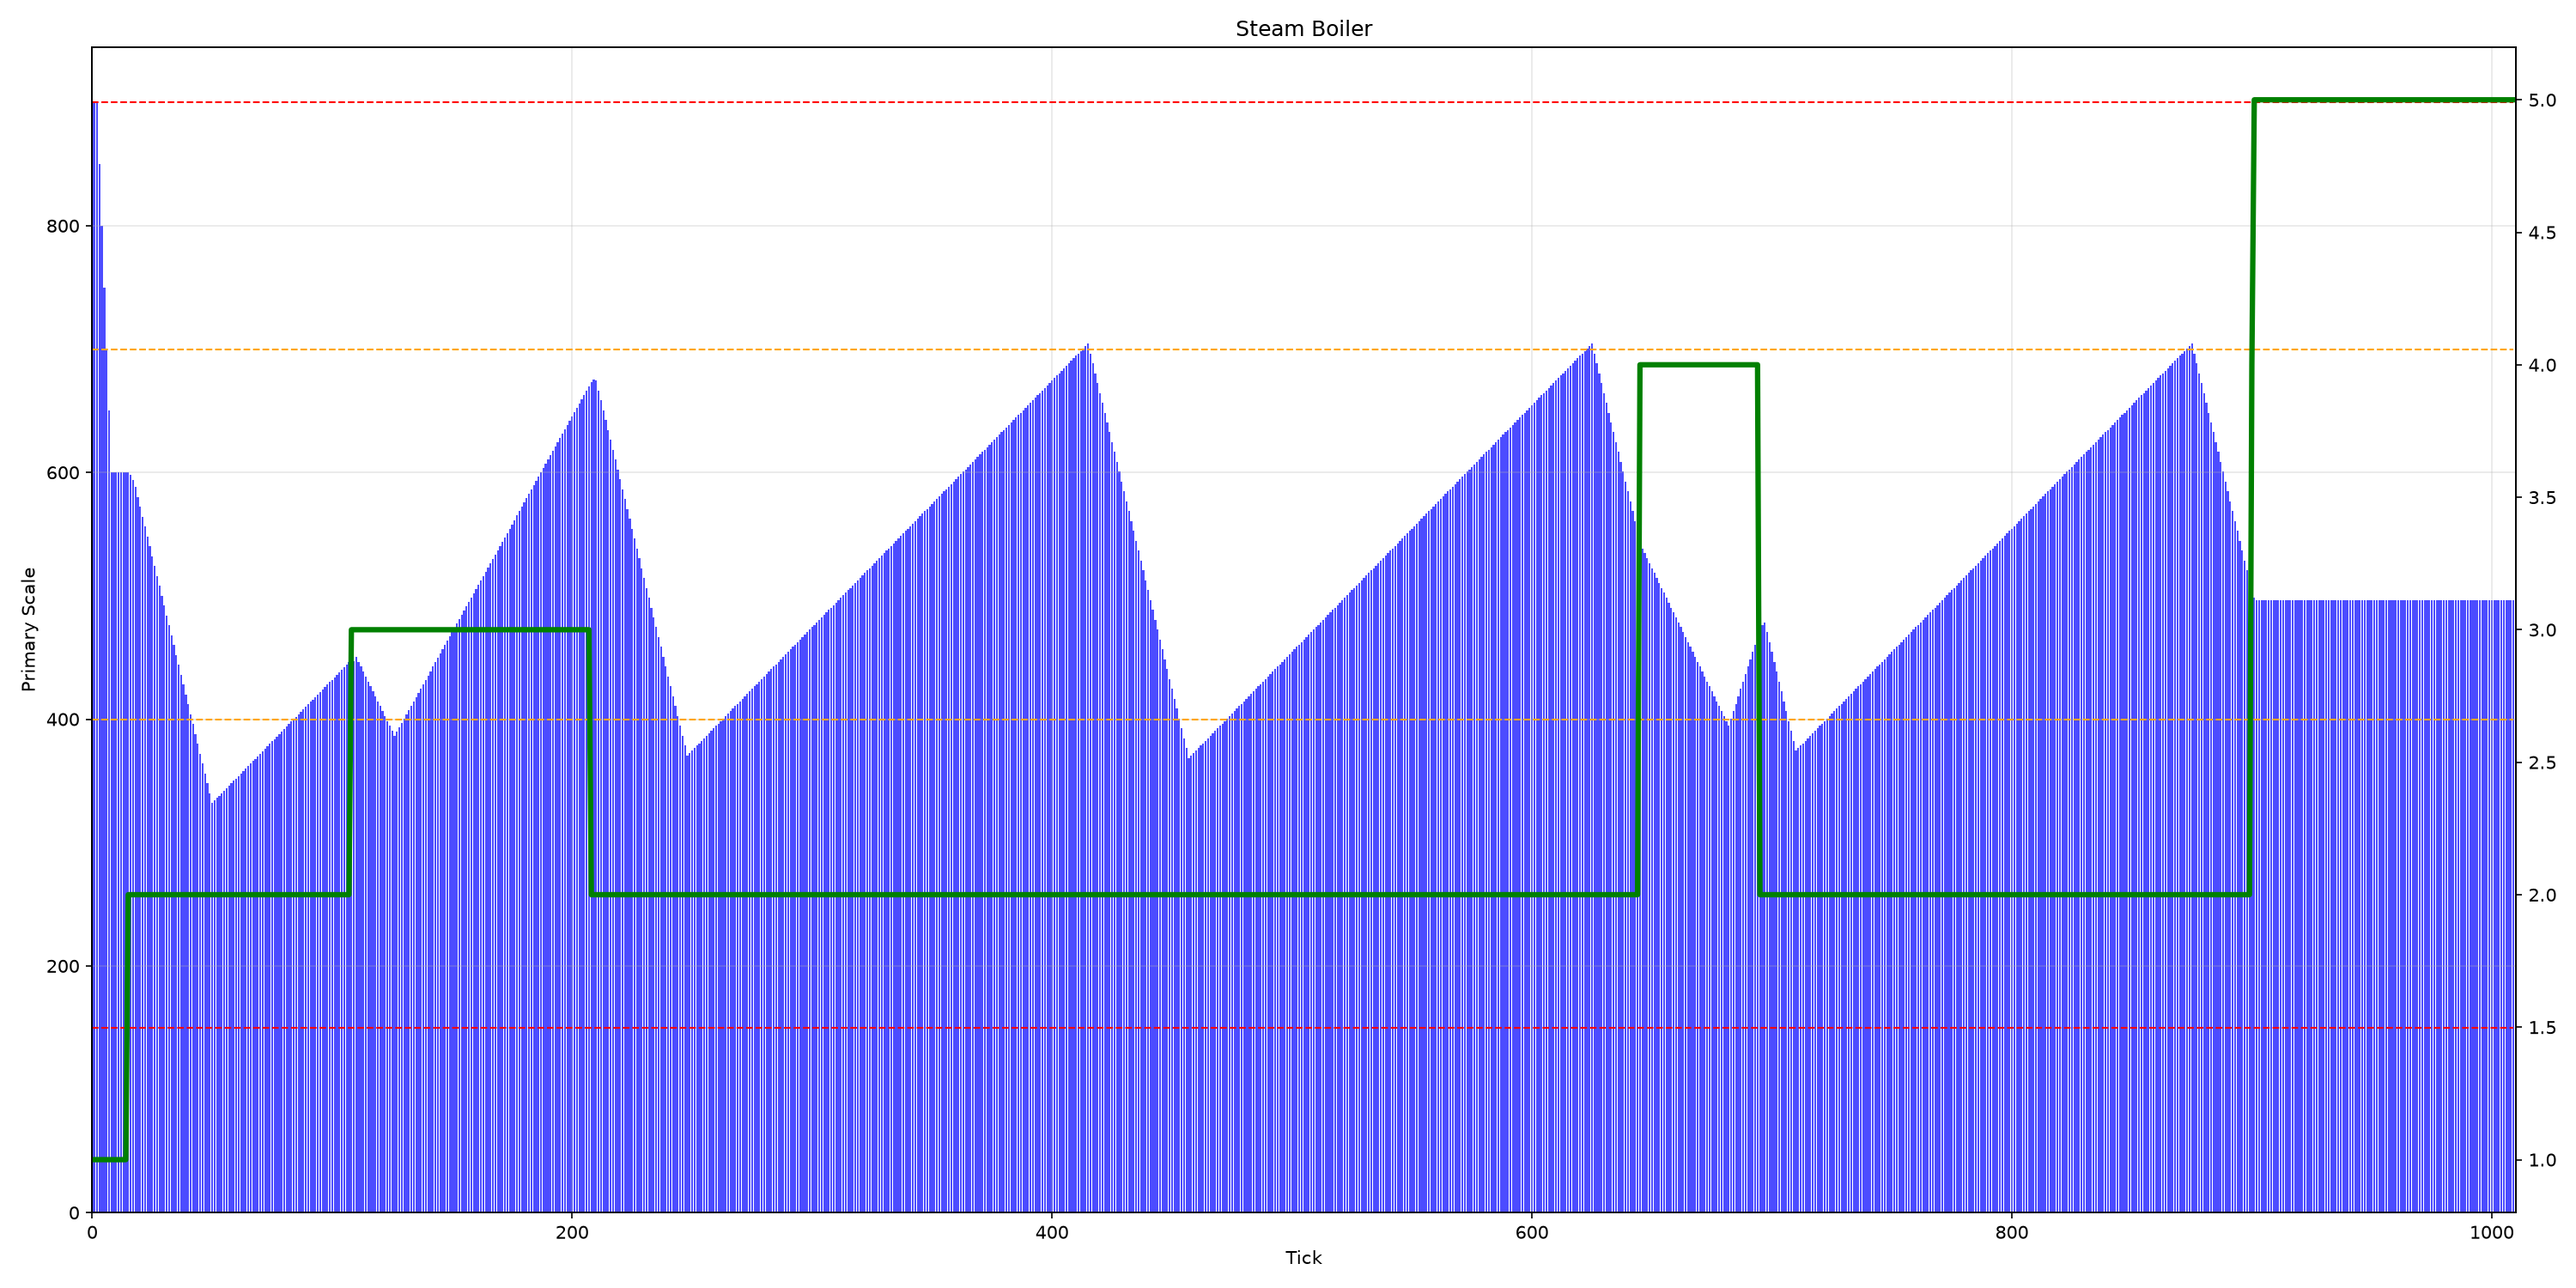
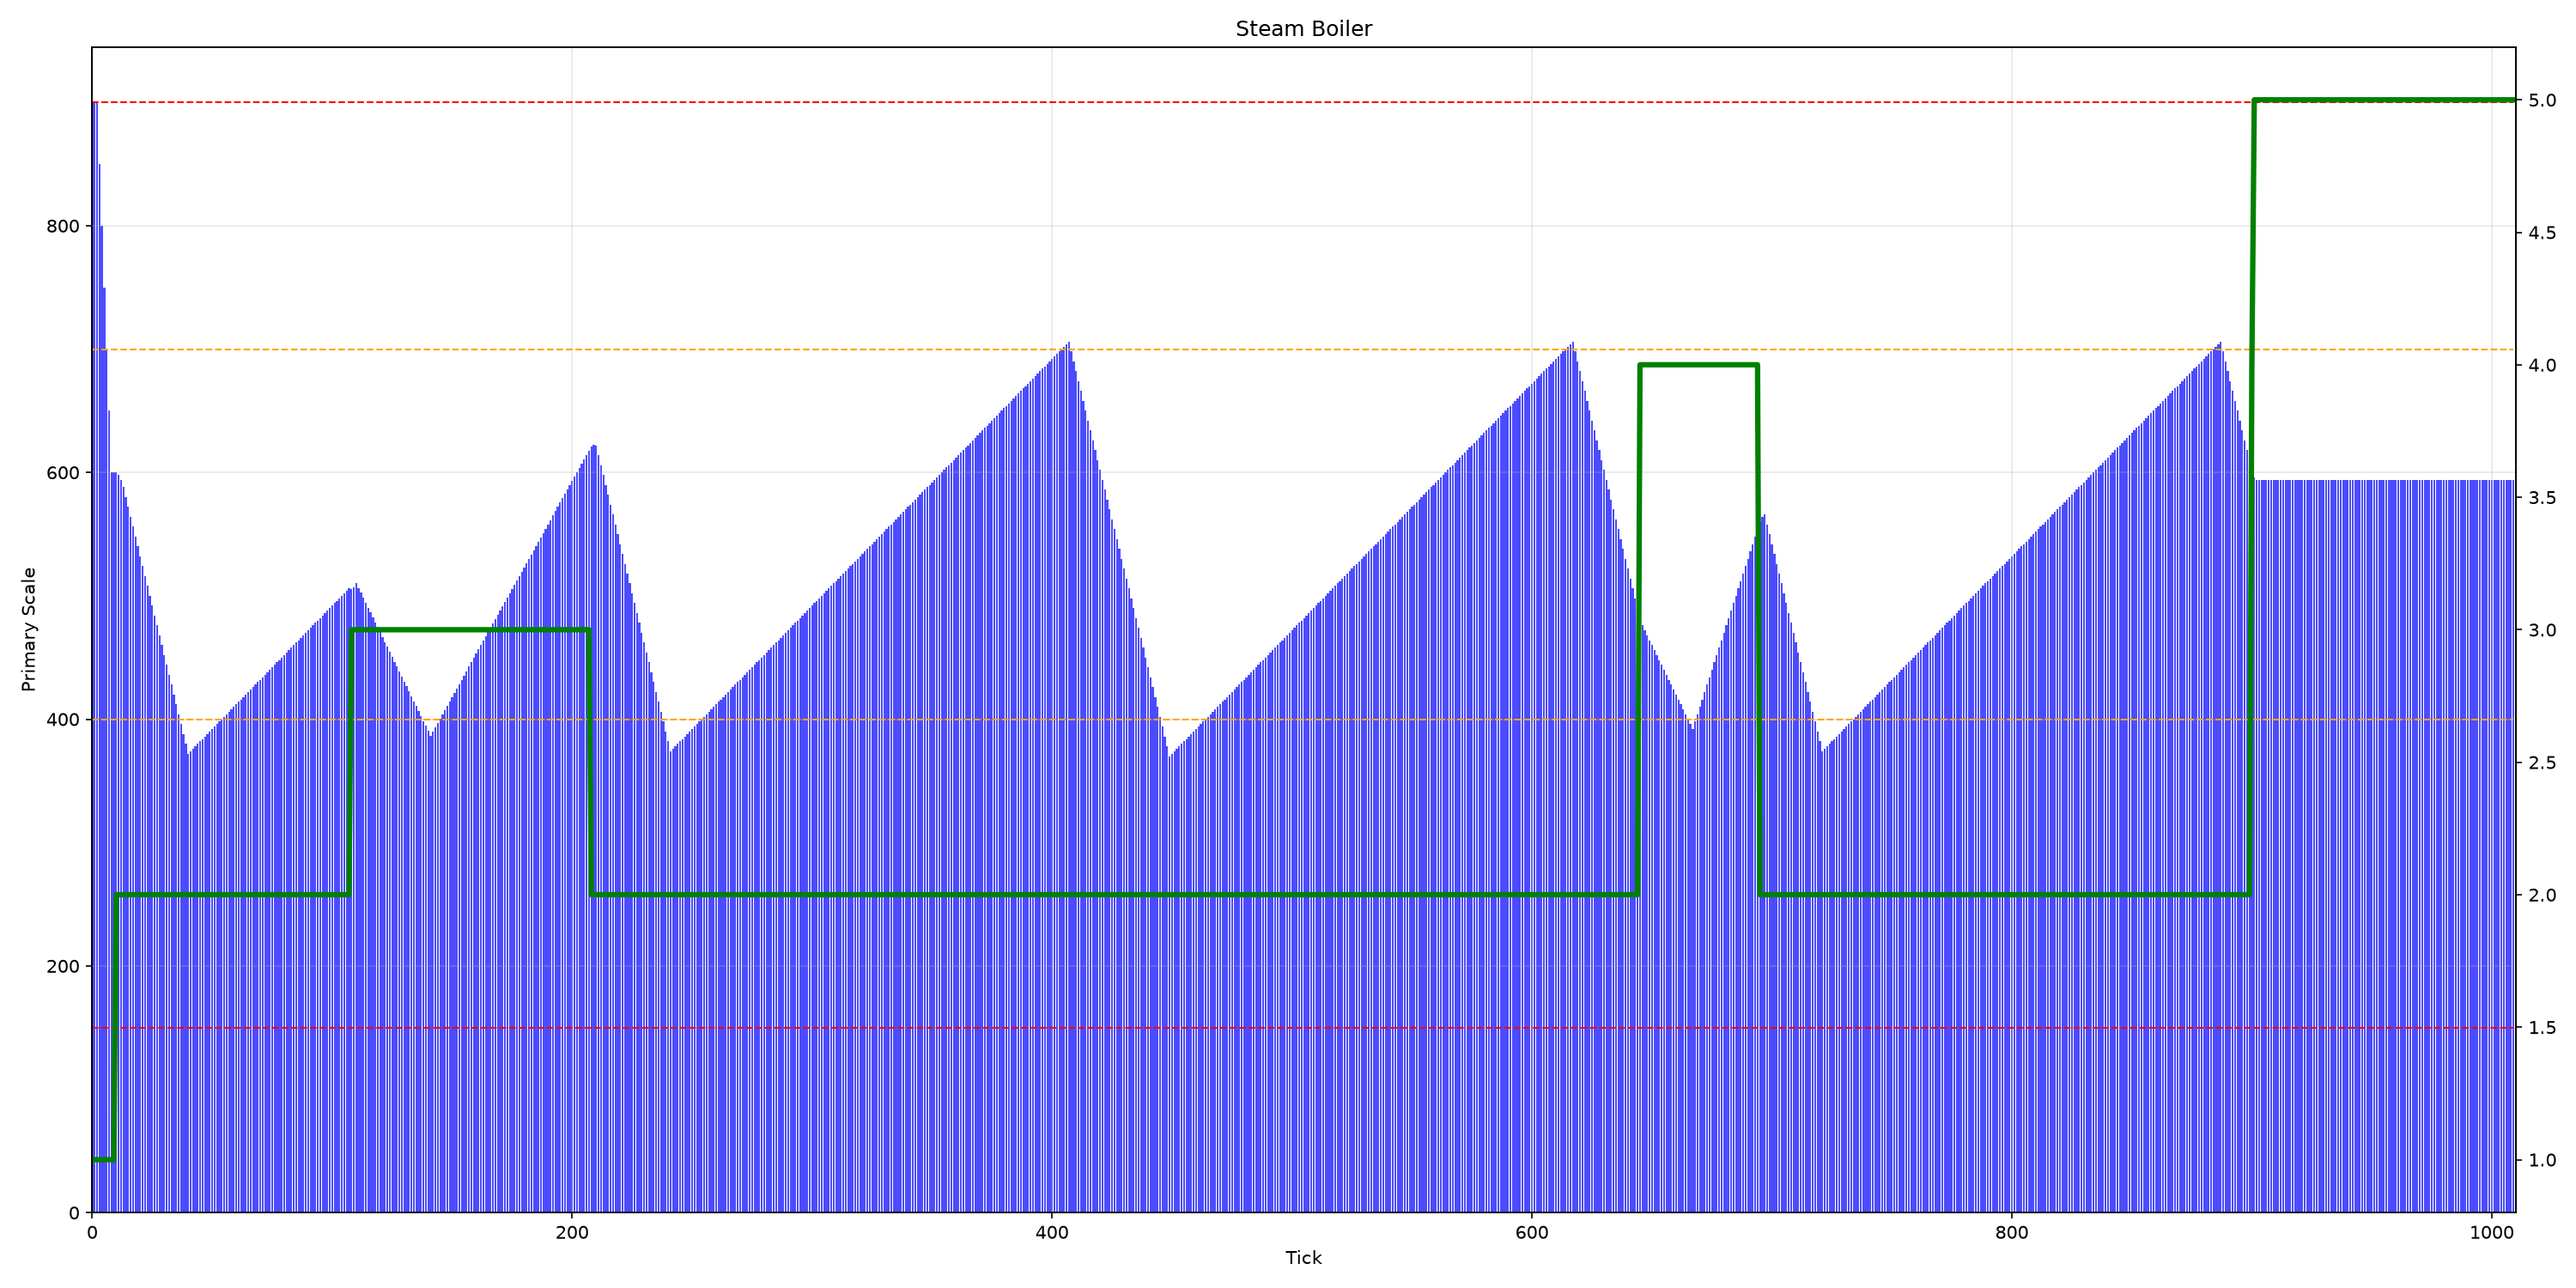
Bugfix regarding local variable scope in regions

diff --git a/src/converter/functions.ts b/src/converter/functions.ts
@@ -437,82 +437,89 @@ function convertAstRegionToSchema(
   knownModels: Map<string, string>,
 ): Region {
   const regionName = astRegion.name || `_regionR${counter.val++}`;
-  const innerStates: State[] = [];
+
+  // Pre-collect elements by type so the hierarchy is assembled correctly
+  // regardless of element order in the source.
+  const nestedStates: AstState[] = [];
+  const nestedRegions: AstRegion[] = [];
+  const nestedVariables: AstVariable[] = [];
 
   for (const element of astRegion.elements) {
     if (element.$type === "State") {
-      const schemaState = convertAstStateToSchema(
-        element,
-        counter,
-        knownModels,
-      );
-      innerStates.push(schemaState);
+      nestedStates.push(element);
     } else if (element.$type === "Variable") {
-      // Variables inside a region attached to the region itself somehow
-      // Since regions don't have variables in our schema, we create a holder state
-      const variables: Variable[] = [];
-
-      for (const assignment of element.assignments) {
-        const varEntry: Variable = {
-          id: assignment.name,
-          type: element.type,
-          isInput: element.isInput,
-          isOutput: element.isOutput,
-          cardinalities: assignment.cardinalities,
-        };
-
-        if (assignment.initialValue !== undefined) {
-          varEntry.initialValue = assignment.initialValue
-            .replaceAll("#", "")
-            .trim();
-        }
-
-        variables.push(varEntry);
-      }
-
-      // Check if there's already a holder state in this region for variables
-      const existingHolder = innerStates.find((s) =>
-        s.id.startsWith("__varholder_"),
-      );
-      if (existingHolder) {
-        convertVariablesToSchema(element, existingHolder.variables);
-      } else {
-        innerStates.push({
-          id: `__varholder_${regionName}`,
-          label: "",
-          actions: [],
-          transitions: [],
-          variables: variables,
-          isInitial: false,
-          isFinal: false,
-          isConnector: false,
-          regions: [],
-        });
-      }
+      nestedVariables.push(element);
     } else if (element.$type === "Region") {
-      const nestedSchemaRegion = convertAstRegionToSchema(
-        element,
-        counter,
-        knownModels,
-      );
-      innerStates.push({
-        id: element.name || `_regionR${counter.val++}`,
-        label: "",
-        actions: [],
-        transitions: [],
-        variables: [],
-        isInitial: false,
-        isFinal: false,
-        isConnector: false,
-        regions: [nestedSchemaRegion],
-      });
+      nestedRegions.push(element);
     }
+  }
+
+  // Collect all variables from this region into one array
+  const allVars: Variable[] = [];
+  for (const v of nestedVariables) {
+    convertVariablesToSchema(v, allVars);
+  }
+
+  // Build the varholder if this region has any variables
+  let varholder: State | null = null;
+  if (allVars.length > 0) {
+    varholder = {
+      id: `__varholder_${regionName}`,
+      label: "",
+      actions: [],
+      transitions: [],
+      variables: allVars,
+      isInitial: false,
+      isFinal: false,
+      isConnector: false,
+      regions: [],
+    };
+  }
+
+  // Convert nested regions and states into a flat list of child schemas
+  const innerStatesList: State[] = [];
+
+  for (const region of nestedRegions) {
+    const schemaRegion = convertAstRegionToSchema(region, counter, knownModels);
+    innerStatesList.push({
+      id: region.name || `_regionR${counter.val++}`,
+      label: "",
+      actions: [],
+      transitions: [],
+      variables: [],
+      isInitial: false,
+      isFinal: false,
+      isConnector: false,
+      regions: [schemaRegion],
+    });
+  }
+
+  for (const element of nestedStates) {
+    innerStatesList.push(convertAstStateToSchema(element, counter, knownModels));
+  }
+
+  // Assemble the final hierarchy based on whether a varholder exists:
+  // - If there is a varholder, all other states go under it so they share scope
+  let finalStates: State[];
+  if (varholder) {
+    if (innerStatesList.length > 0) {
+      const dummyRegion: Region = {
+        id: `_regionWr_${regionName}_${counter.val++}`,
+        label: `_regionWr_${regionName}_${counter.val - 1}`,
+        states: innerStatesList,
+      };
+      varholder.regions.push(dummyRegion);
+    }
+    finalStates = [varholder];
+  } else {
+    // No variables in this region — just return all children flat
+    finalStates = innerStatesList;
   }
 
   return {
     id: regionName,
     label: regionName,
-    states: innerStates,
+    states: finalStates,
   };
 }
 

diff --git a/src/interpreter/variables.ts b/src/interpreter/variables.ts
@@ -23,6 +23,7 @@ function __getVariable(
 
   if (Array.isArray(possibleVars)) {
     const scope = getScope(node.graph) + node.id;
+    // console.log("VAR:", id, node.id, possibleVars, scope);
     return findBestMatch(possibleVars, scope);
   }
 

diff --git a/testing/tests/test_steam_boiler.py b/testing/tests/test_steam_boiler.py
@@ -38,6 +38,26 @@ def test_steam_boiler():
     runnerComp = TestRunner("../../models-private/sccharts/grille/SteamBoilerDF/Plant")
     resultComp = runnerComp.generate_expected(
         inputs,
-        ["Mode", "WaterLevel", "SteamLevel", "PowerUp", "Second"],
+        [
+            "Mode",
+            "WaterLevel",
+            "SteamLevel",
+            "PowerUp",
+            "Second",
+            "M1",
+            "M2",
+            "N1",
+            "N2",
+            "Pump1Flow",
+            "Pump2Flow",
+            "Pump3Flow",
+            "Pump4Flow",
+        ],
     )
     create_custom_log(resultComp, "steam_boiler_comp")
+
+    runnerExp = TestRunner(
+        "../../models-private/sccharts/grille/SteamBoilerDF/expanded_and_manual_Plant"
+    )
+    resultsExp = runnerExp.run(inputs)
+    create_custom_log(resultsExp, "steam_boiler_exp")
